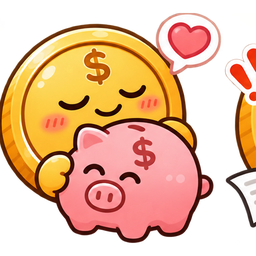
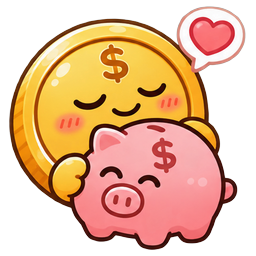
3.3：重切 3.1 新增六張硬幣圖（撲滿右邊混進帳單碎片）；切圖腳本放 tools/cut-coins31.py

diff --git a/tools/cut-coins31.py b/tools/cut-coins31.py
@@ -1,0 +1,59 @@
+# 3.1 新增六張拖拖硬幣：從透明原圖切成 256x256（src/assets/coins31/*.png）。
+# 做法：依透明度找出每個「連通塊」，大塊＝各貼圖的主體；小塊（星星、驚嘆號、泡泡）歸到距離最近的主體；
+#      每張只留自己的部分（不會切到旁邊貼圖的碎片），再貼進 256x256 正方形。
+# 用法（專案根目錄）：py -3 tools/cut-coins31.py
+import numpy as np
+from PIL import Image
+from scipy import ndimage as ndi
+
+SRC = '素材/拖拖硬幣/原圖/3.1新增六張(透明).png'
+OUT = 'src/assets/coins31/'
+# 主體（大塊）的重心大約位置 → 檔名（左到右、上到下：購物、吃飯、交通 / 投資、撲滿、帳單）
+NAMES = [('shop', (275, 306)), ('eat', (748, 280)), ('transit', (1250, 264)),
+         ('rich', (244, 755)), ('piggy', (732, 737)), ('bill', (1223, 726))]
+SIZE, FIT = 256, 244  # 輸出邊長、內容最長邊（留一點邊）
+
+im = Image.open(SRC).convert('RGBA')
+rgba = np.array(im)
+lab, n = ndi.label(rgba[:, :, 3] > 20)
+objs = ndi.find_objects(lab)
+comps = []
+for i, sl in enumerate(objs, 1):
+    m = lab[sl] == i
+    area = int(m.sum())
+    if area < 150:
+        continue  # 雜訊
+    cy, cx = ndi.center_of_mass(lab == i)
+    comps.append(dict(id=i, area=area, box=(sl[1].start, sl[0].start, sl[1].stop, sl[0].stop), c=(cx, cy)))
+
+mains = sorted(comps, key=lambda c: -c['area'])[:6]
+owner = {}
+for name, (nx, ny) in NAMES:
+    best = min(mains, key=lambda c: (c['c'][0] - nx) ** 2 + (c['c'][1] - ny) ** 2)
+    owner[best['id']] = name
+
+def gap(a, b):  # 兩個外框之間的最短距離
+    dx = max(a[0] - b[2], b[0] - a[2], 0)
+    dy = max(a[1] - b[3], b[1] - a[3], 0)
+    return (dx * dx + dy * dy) ** 0.5
+
+for c in comps:
+    if c['id'] in owner:
+        continue
+    near = min(mains, key=lambda m: gap(c['box'], m['box']))
+    owner[c['id']] = owner[near['id']]
+
+for name, _ in NAMES:
+    ids = [i for i, o in owner.items() if o == name]
+    mask = np.isin(lab, ids)
+    ys, xs = np.where(mask)
+    x0, x1, y0, y1 = xs.min(), xs.max() + 1, ys.min(), ys.max() + 1
+    piece = rgba[y0:y1, x0:x1].copy()
+    piece[~mask[y0:y1, x0:x1]] = 0  # 只留自己的部分
+    tile = Image.fromarray(piece, 'RGBA')
+    k = FIT / max(tile.size)
+    tile = tile.resize((max(1, round(tile.size[0] * k)), max(1, round(tile.size[1] * k))), Image.LANCZOS)
+    out = Image.new('RGBA', (SIZE, SIZE), (0, 0, 0, 0))
+    out.paste(tile, ((SIZE - tile.size[0]) // 2, (SIZE - tile.size[1]) // 2), tile)
+    out.save(OUT + name + '.png', optimize=True)
+    print(name, '部分數', len(ids), '原始範圍', (x0, y0, x1, y1))
